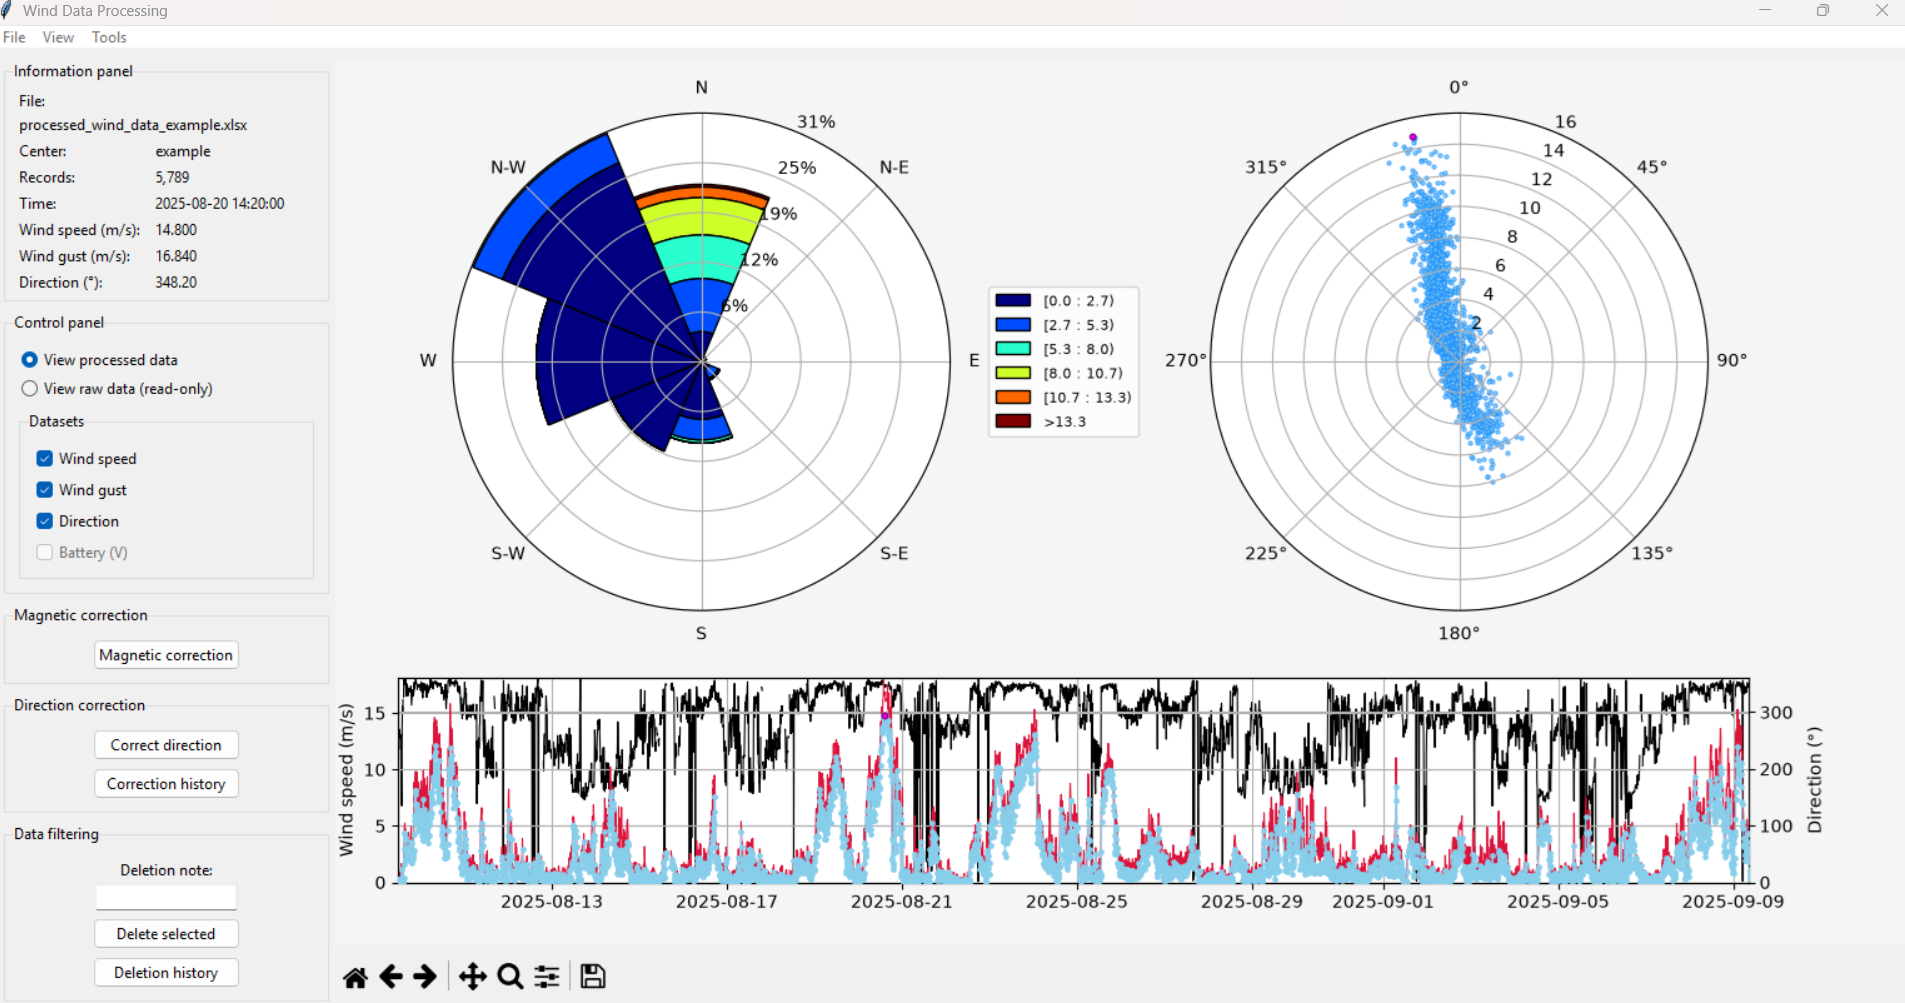
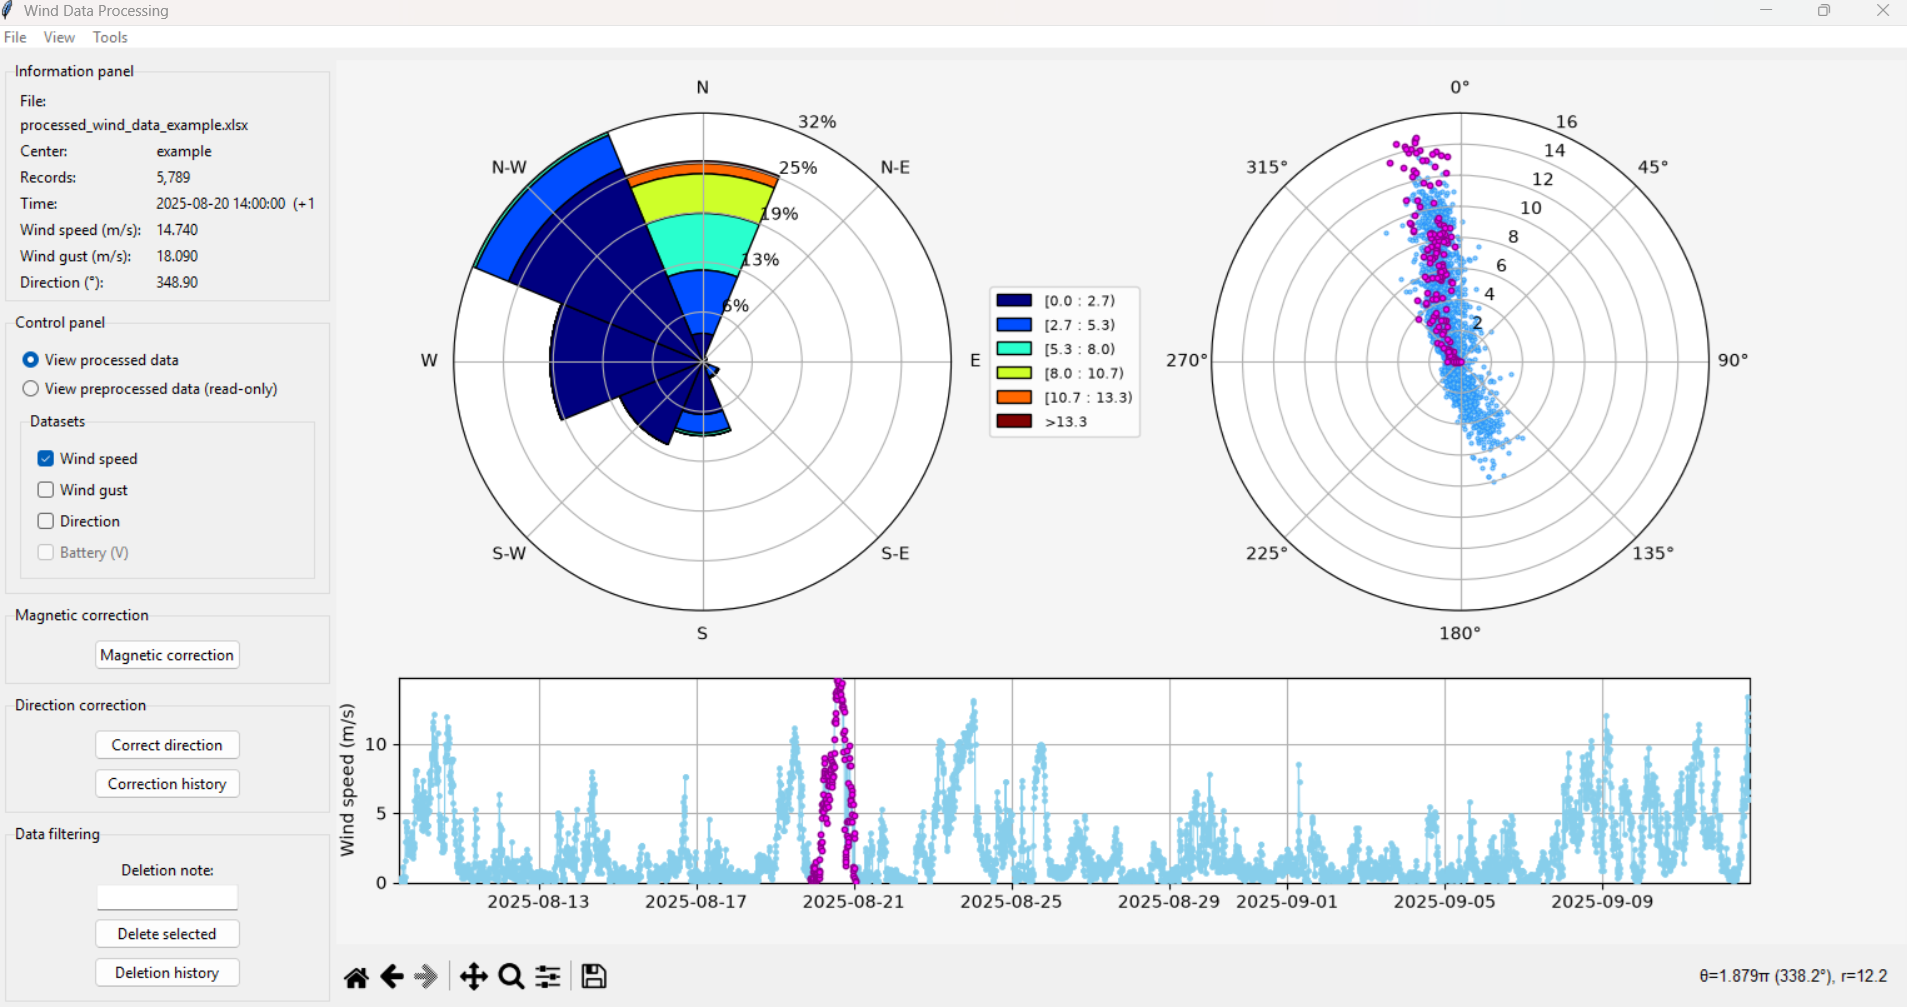
Update README.md

diff --git a/README.md b/README.md
@@ -1,16 +1,16 @@
 # WinDP — Wind Data Processing
-Desktop app for processing wind speed and direction data. Includes the WMM Declination Calculator which can be used to apply a magnetic correction to the direction. This is generally done to refer anemometer data installed with a compass to geographic North. A midpoint date is used for the for the simple correction, while the complete correction applies the declination to each timestamp.  
+Desktop app for processing wind speed and direction data. Includes the WMM Declination Calculator which can be used to apply a magnetic correction to the direction. This is generally done to refer anemometer data installed with a compass to geographic North. 
 
 <img src="app.png" width="952" height="501">
 
 ## Features
 - Load tab-delimited or Excel wind data files along with Hobo H21-USB and Campbell data logger formats 
 - Interactive wind rose, polar scatter, and time-series plots with point selection
-- Toggle raw (read-only) vs processed views and optional series overlays (gust, battery)
-- Magnetic correction to geographic North via the World Magnetic Model (WMM) through [pygeomag](https://github.com/boxpet/pygeomag).
+- Toggle preprocessed (read-only) vs processed views and optional series overlays (gust, battery)
+- Magnetic correction to geographic North via the World Magnetic Model (WMM) through [pygeomag](https://github.com/boxpet/pygeomag). A midpoint date is used for the for the simple correction, while the complete correction applies the declination to each timestamp.  
 - Direction correction for incorrect anemometer orientation, with correction history
 - Manual deletion of outliers with notes and deletion history and option to undo deletions
-- Export raw and processed Excel workbooks (including deleted points and direction corrections that can be reloaded)
+- Export preprocessed and processed Excel workbooks (including preprocessed data, deleted data and magnetic and direction corrections which can be reloaded with the load processed data menu option)
 
 ## Requirements
 - Python 3.10+
@@ -21,9 +21,8 @@ Desktop app for processing wind speed and direction data. Includes the WMM Decli
 
 ## Setup
 ```powershell
-cd "path\to\WinDP"
+cd "path\to\windp"
 python -m venv .venv
 .\.venv\Scripts\Activate.ps1
 pip install -r requirements.txt
 python WinDP.py
->>>>>>> 5e6051d2ca489a58fe1273c9f209be87a8e0c287
